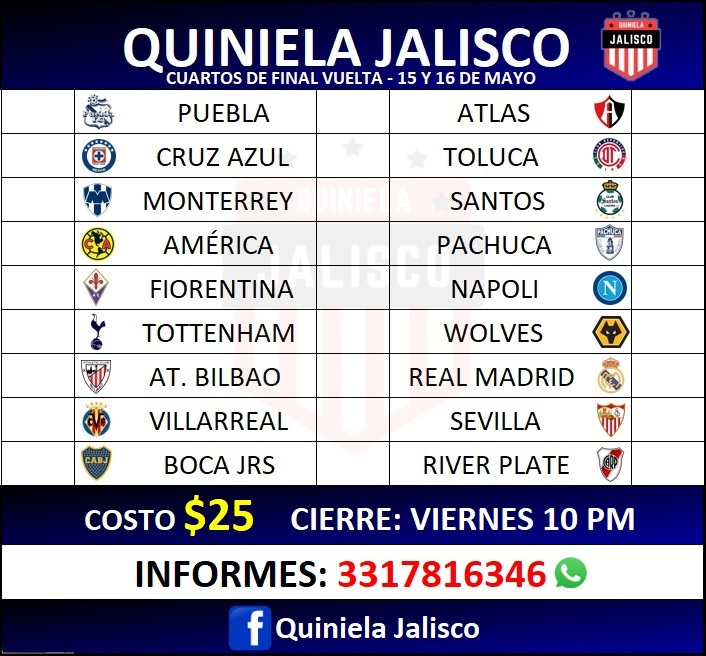
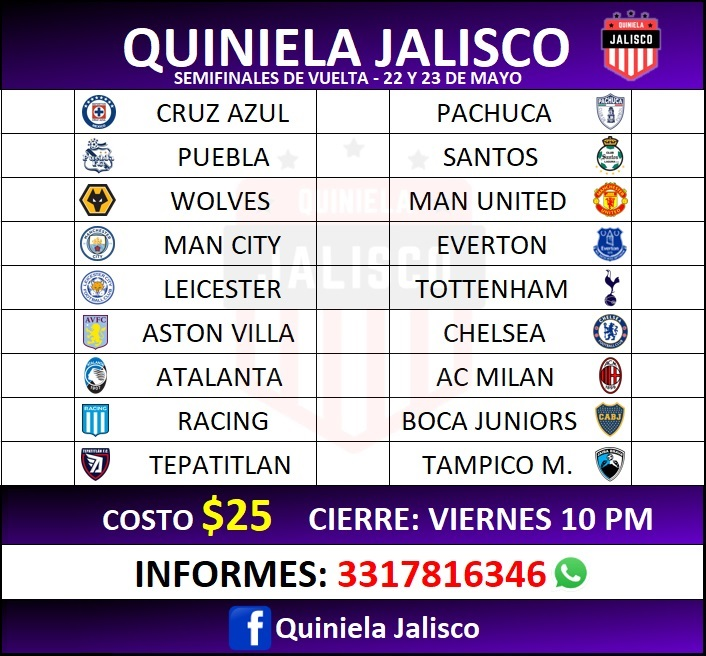
Semifinales C21

diff --git a/styles.css b/styles.css
@@ -88,8 +88,8 @@ h1{
     margin-top: 8%;
     border: solid 1px black;
     border-radius: 0 0 14px 14px;
-    background: -webkit-linear-gradient(0.04turn, rgb(8,20,20)  ,rgb(0,0,142) 80%);
-    background: linear-gradient(0.04turn, rgb(8,20,20)  ,rgb(0,0,142) 80%);
+    background: -webkit-linear-gradient(0.04turn, rgb(8,20,20)  ,rgb(98,0,192) 80%);
+    background: linear-gradient(0.04turn, rgb(8,20,20)  ,rgb(98,0,192) 80%);
     font-size: x-large;
 }
 
